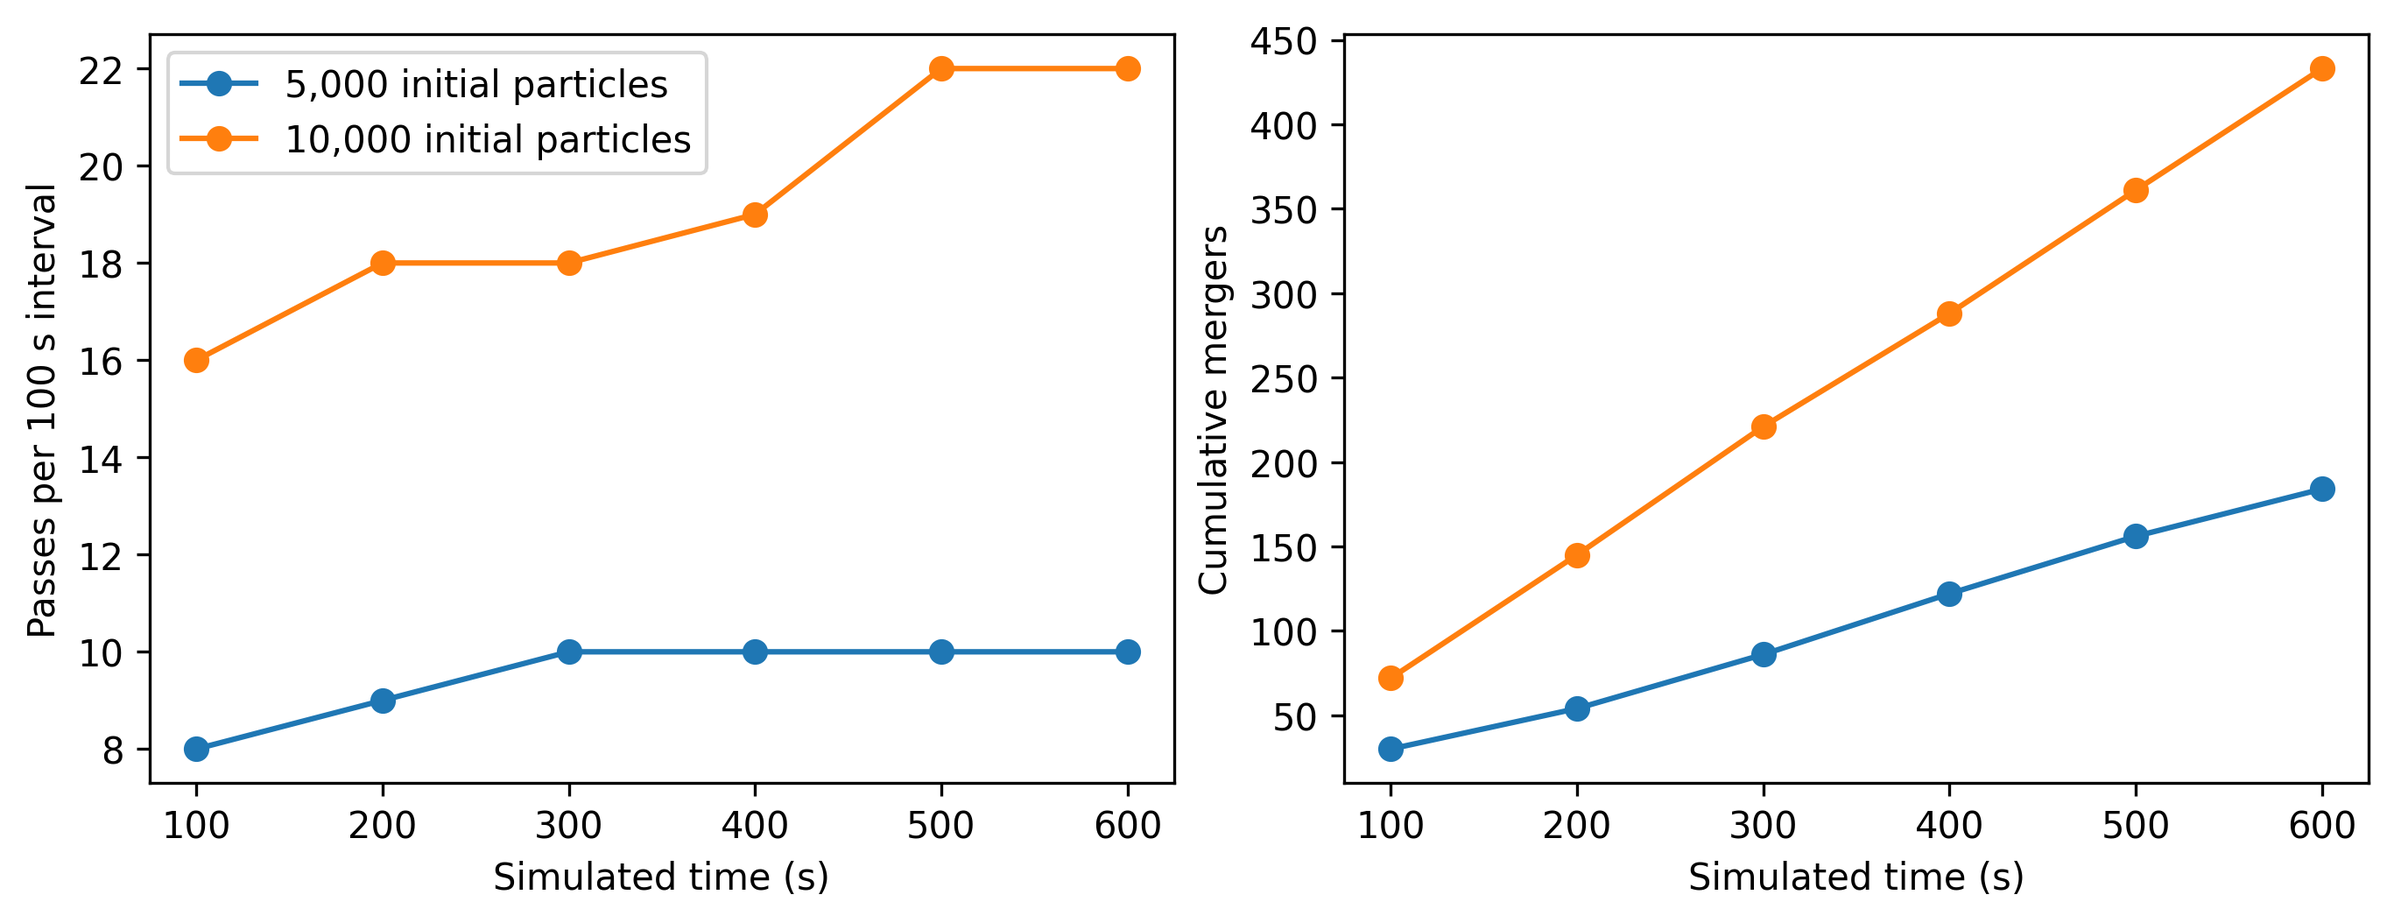
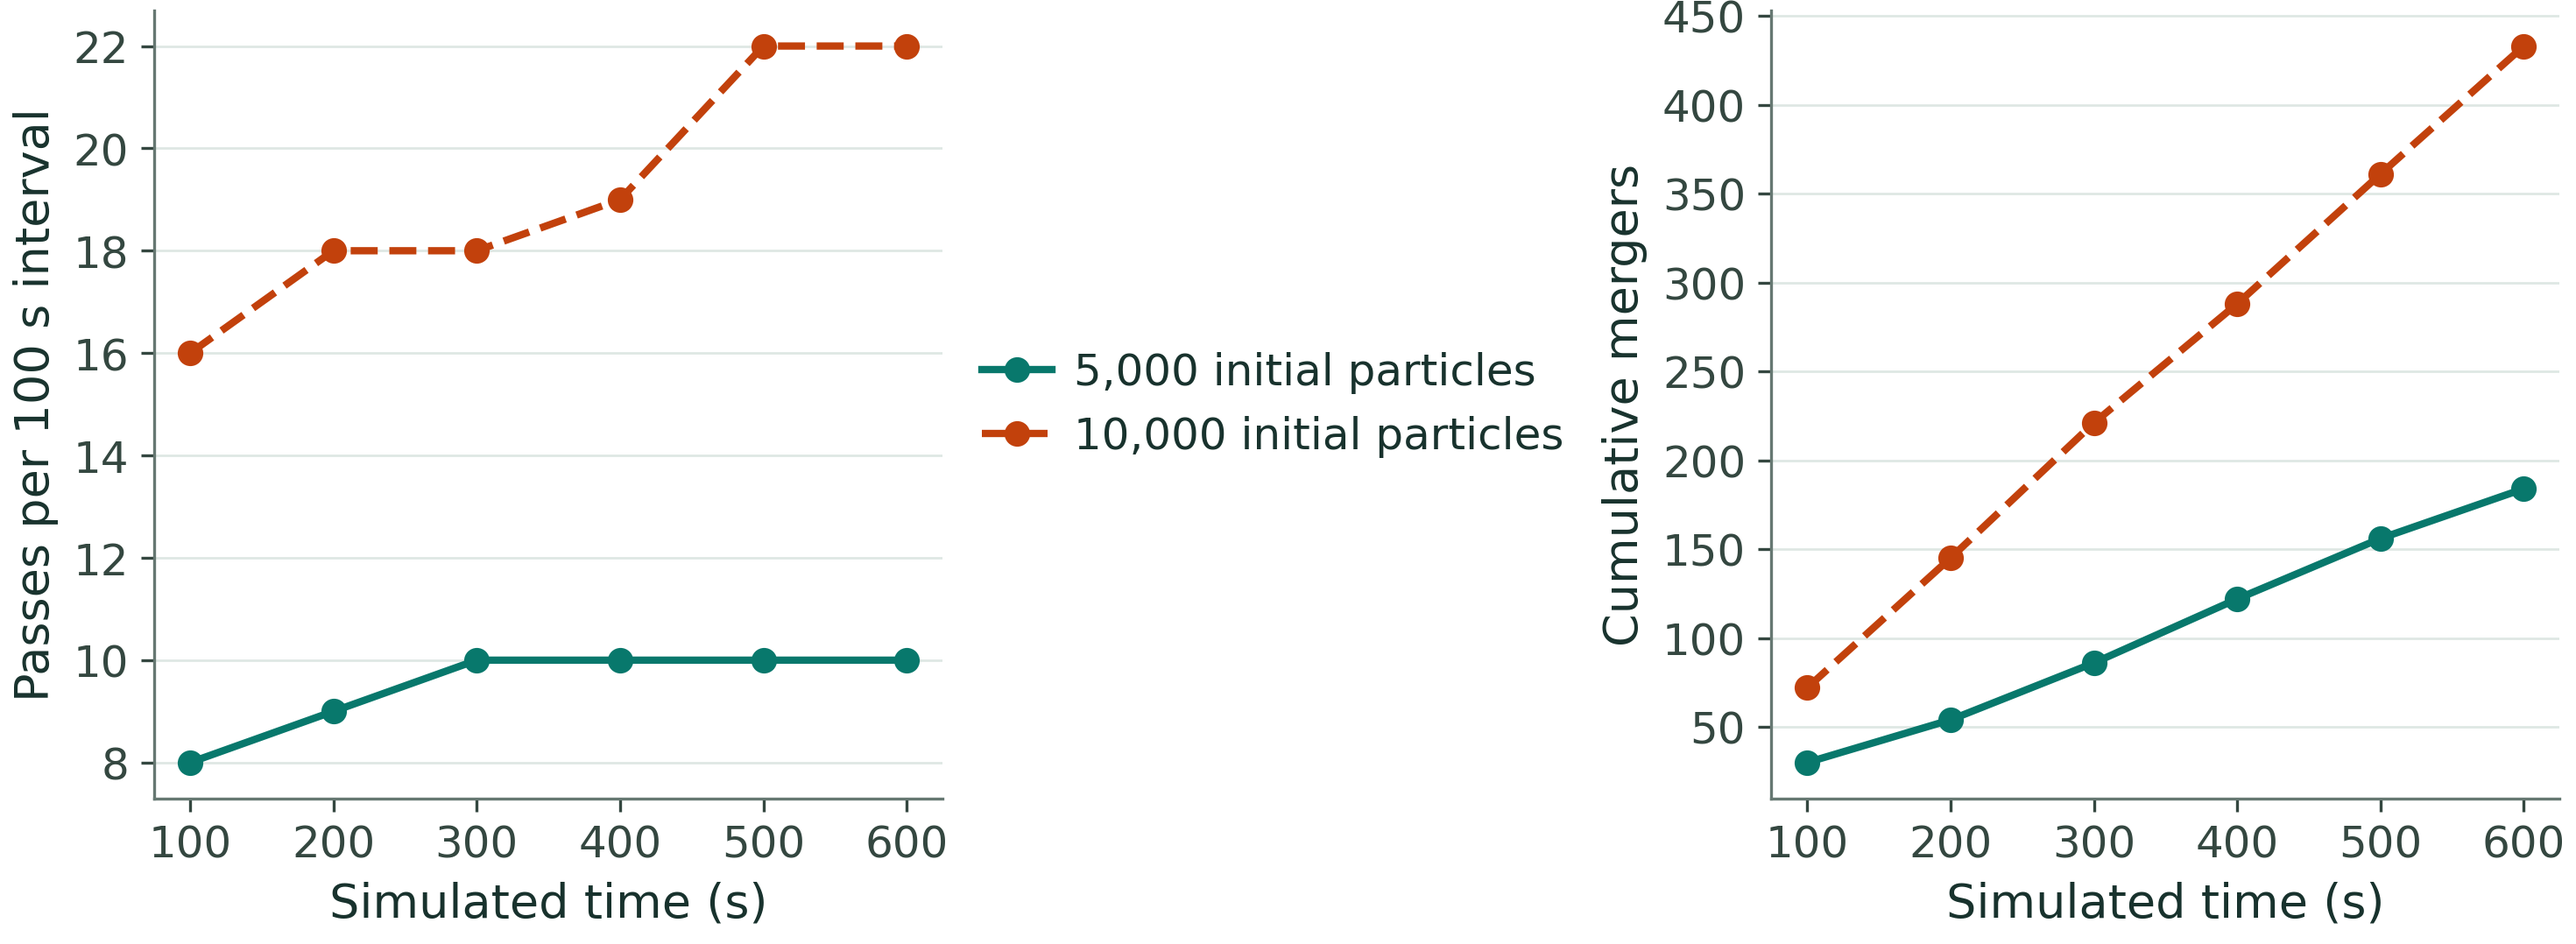
docs(gpu): verify coupled subcycling and refresh the adaptive example

diff --git a/examples_tests/biomass_coagulation_test.py b/examples_tests/biomass_coagulation_test.py
@@ -1,0 +1,67 @@
+"""Exercise live collision work admission and restart in a coupled cycle."""
+
+import numpy as np
+import pytest
+from particula.execution.gpu_coupled import GPUCoupledSimulation
+from particula.execution.gpu_coupled_restart import resume_coupled
+from particula.execution.tests.gpu_coupled_test import equal_native
+from particula.execution.tests.prepared_cloud_collisions_test import (
+    collision,
+    material_case,
+)
+from particula.gpu.kernels.coagulation import CoagulationSubcyclingConfig
+
+wp = pytest.importorskip("warp")
+
+
+@pytest.mark.warp
+@pytest.mark.parametrize("device", ["cpu", "cuda:0"])
+def test_coupled_coagulation_splits_interval_and_resumes(device):
+    """Retain full cycle time, collision counts and RNG across a restart."""
+    resident = device != "cpu"
+    if resident and (
+        not wp.is_cuda_available() or not wp.is_conditional_graph_supported()
+    ):
+        pytest.skip("native conditional CUDA unavailable")
+    initial, strategy = material_case(3)
+    initial.particles.volume[:] = 1e-8
+    strategy.diffusion_coefficient = 1e-14
+    events = (collision("combined"),)
+    with GPUCoupledSimulation(
+        initial,
+        events,
+        strategy,
+        device=device,
+        resident=resident,
+        time_step=0.1,
+        root_seed=0,
+        coagulation_subcycling=CoagulationSubcyclingConfig(1e-6, 16, 2**24),
+    ) as owner:
+        if resident:
+            owner.capture_events()
+        owner.step()
+        before = np.count_nonzero(
+            owner.snapshot().particles.concentration, axis=1
+        )
+        checkpoint = owner.checkpoint()
+        owner.step()
+        work = owner.coagulation_diagnostics()
+        assert work["substep_count"] >= 2
+        np.testing.assert_allclose(
+            sum(work["substep_sizes"]), 0.1, rtol=0, atol=8 * np.spacing(0.1)
+        )
+        assert owner.completed_steps == 2 and owner.time == pytest.approx(0.2)
+        final = owner.snapshot()
+        np.testing.assert_array_equal(
+            before - np.count_nonzero(final.particles.concentration, axis=1),
+            work["accepted_collisions"].sum(axis=0),
+        )
+    with resume_coupled(checkpoint, events, strategy, device=device) as resumed:
+        if resident:
+            resumed.capture_events()
+        resumed.step()
+        equal_native(resumed.snapshot(), final)
+        np.testing.assert_array_equal(
+            resumed.coagulation_diagnostics()["substep_sizes"],
+            work["substep_sizes"],
+        )

diff --git a/docs/examples/gpu/prepared/adaptive_coagulation.py b/docs/examples/gpu/prepared/adaptive_coagulation.py
@@ -17,7 +17,7 @@ from time import perf_counter
 import matplotlib.pyplot as plt
 import numpy as np
 import warp as wp
-from particula import Aerosol
+from particula import Aerosol, plotting
 from particula.dynamics import (
     BrownianCoagulationStrategy,
     Coagulation,
@@ -169,25 +169,29 @@ def simulate():
 
 
 # %%
+@plt.style.context("particula.default")
 def plot_results(report):
     """Plot observed subcycle counts and cumulative accepted mergers."""
-    fig, axes = plt.subplots(1, 2, figsize=(9, 3.4), constrained_layout=True)
+    fig, axes = plotting.subplots(1, 2)
     for row in report["rows"]:
         events = row["events"]
         times = [e["time_s"] for e in events]
         label = f"{row['slots']:,} initial particles"
-        axes[0].plot(times, [e["passes"] for e in events], "o-", label=label)
+        axes[0].plot(
+            times, [e["passes"] for e in events], marker="o", label=label
+        )
         axes[1].plot(
             times,
             np.cumsum([e["collisions"] for e in events]),
-            "o-",
+            marker="o",
             label=label,
         )
     for ax in axes:
         ax.set_xlabel("Simulated time (s)")
     axes[0].set_ylabel("Passes per 100 s interval")
     axes[1].set_ylabel("Cumulative mergers")
-    axes[0].legend()
+    plotting.legend(axes[0])
+    plotting.fit(fig)
     return fig
 
 

diff --git a/website/results/adaptive-coagulation/source.py b/website/results/adaptive-coagulation/source.py
@@ -17,7 +17,7 @@ from time import perf_counter
 import matplotlib.pyplot as plt
 import numpy as np
 import warp as wp
-from particula import Aerosol
+from particula import Aerosol, plotting
 from particula.dynamics import (
     BrownianCoagulationStrategy,
     Coagulation,
@@ -169,25 +169,29 @@ def simulate():
 
 
 # %%
+@plt.style.context("particula.default")
 def plot_results(report):
     """Plot observed subcycle counts and cumulative accepted mergers."""
-    fig, axes = plt.subplots(1, 2, figsize=(9, 3.4), constrained_layout=True)
+    fig, axes = plotting.subplots(1, 2)
     for row in report["rows"]:
         events = row["events"]
         times = [e["time_s"] for e in events]
         label = f"{row['slots']:,} initial particles"
-        axes[0].plot(times, [e["passes"] for e in events], "o-", label=label)
+        axes[0].plot(
+            times, [e["passes"] for e in events], marker="o", label=label
+        )
         axes[1].plot(
             times,
             np.cumsum([e["collisions"] for e in events]),
-            "o-",
+            marker="o",
             label=label,
         )
     for ax in axes:
         ax.set_xlabel("Simulated time (s)")
     axes[0].set_ylabel("Passes per 100 s interval")
     axes[1].set_ylabel("Cumulative mergers")
-    axes[0].legend()
+    plotting.legend(axes[0])
+    plotting.fit(fig)
     return fig
 
 

diff --git a/website/AUTHORING.md b/website/AUTHORING.md
@@ -81,13 +81,17 @@ lifecycle panel uses the mean initial histogram across boxes. The saved
 executed source and input hashes identify the scientific calculation.
 
 
-The biomass aerosol tutorial has four plots interleaved with its simulation.
-To run the full tutorial against its archived scientific implementation, use
-`python scripts/docs_examples.py refresh examples-simulations-biomass-burning-cloud-interactions --science-checkout ../particula-original`.
-Check out the registry's pinned library revision in that directory first. The
-runner verifies all scientific Python sources against the recorded package
-digest and executes on native CUDA. The example and Matplotlib renderer come
-from the plotting checkout. The manifest records both revisions.
+The biomass aerosol tutorial generates four plots during a full CUDA run.
+Use the current checkout to run its condensation control and three collision
+models from the same 10,000-particle starting population.
+
+```bash
+python scripts/docs_examples.py refresh examples-simulations-biomass-burning-cloud-interactions
+```
+
+The tutorial records split intervals, maximum collision passes and total
+mergers for each collision model. Its saved output includes the conservation
+checks, device and library revision.
 
 ## Validate changes
 

diff --git a/docs/guide/processes/numerical-integration.md b/docs/guide/processes/numerical-integration.md
@@ -293,6 +293,16 @@ check does not shorten a cycle or change the event clock. Forcing and output
 schedules use complete cycles, with temperature and gas replacements applied
 explicitly between cycles.
 
+Pass `coagulation_subcycling=CoagulationSubcyclingConfig(...)` to let the
+collision sampler split its work within an outer interval. Condensation and
+the other event families keep their outer schedule. After a completed
+cycle, `simulation.coagulation_diagnostics()` reports accepted pass durations
+and merger counts for that interval. If a coupled cycle fails, resume a
+checkpoint saved before the failed cycle. The biomass example records how
+often each collision model requires multiple passes.
+[Adaptive work limits](../gpu/prepared.md#adaptive-coagulation-intervals) ·
+[Biomass simulation](../../examples/simulations/biomass_burning_cloud_interactions.py)
+
 Each cycle retains the event owner's buffers and random streams. With
 `resident=True`, a persistent `GPUResidentCondensation` owner imports event
 state using device-to-device copies, resets scaled coordinates and its
